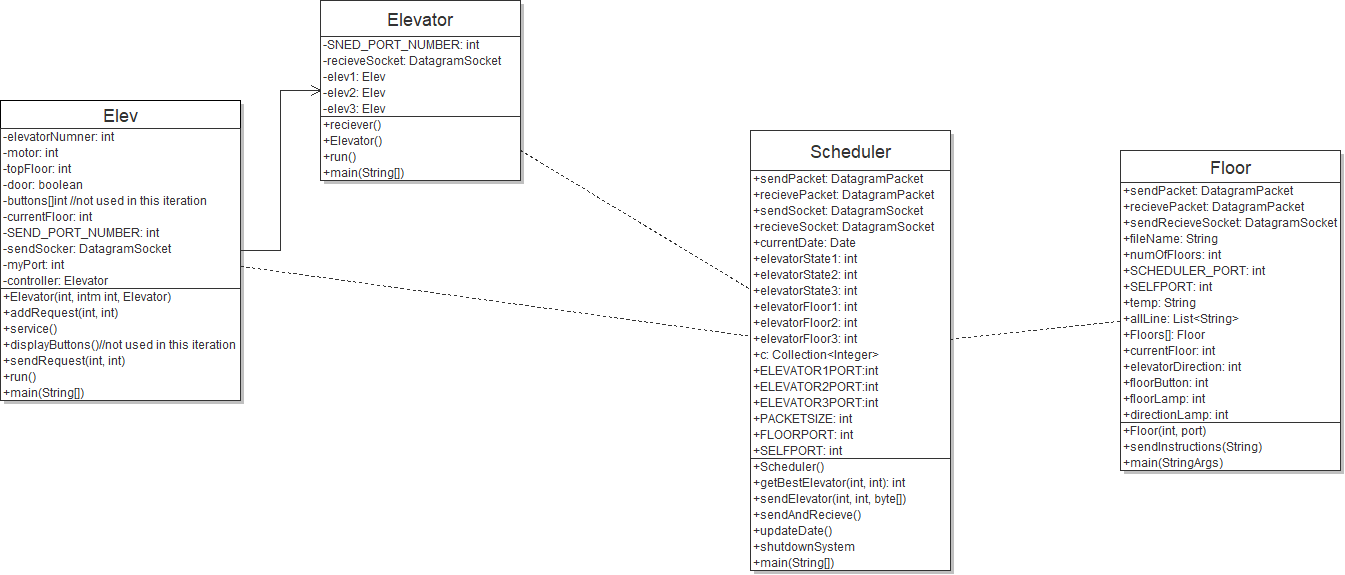
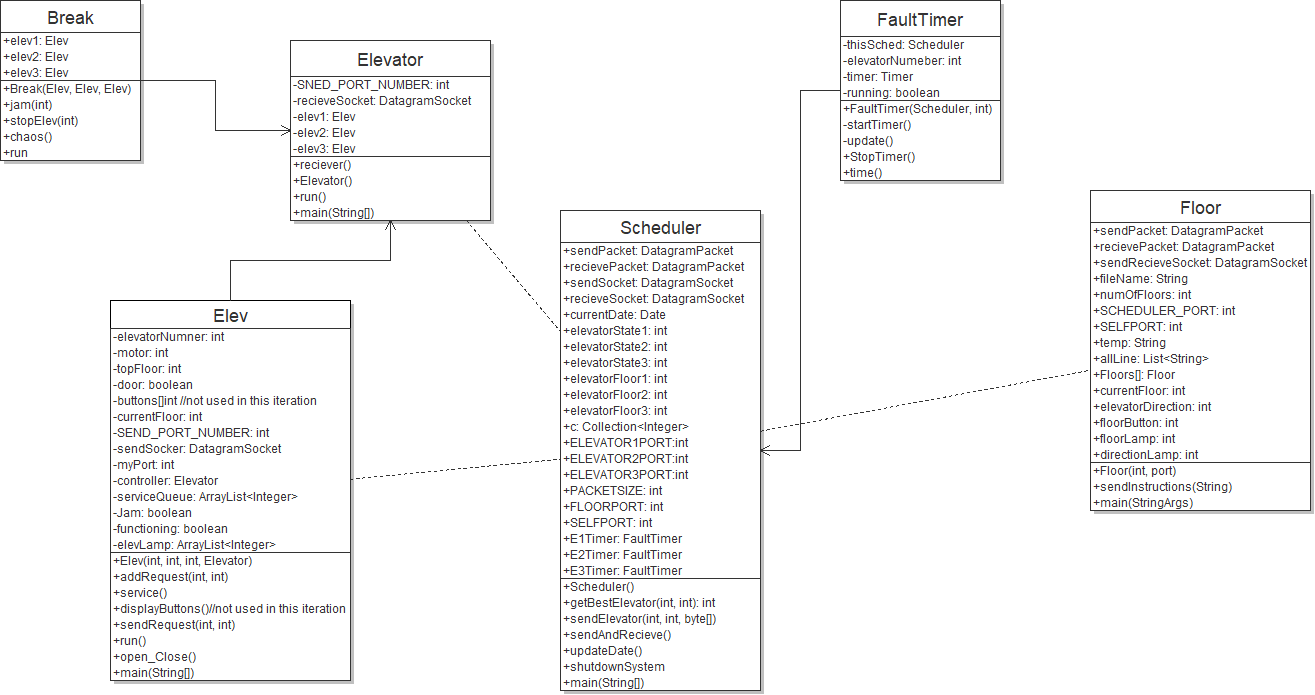
Docs and Comments

diff --git a/src/Break.java b/src/Break.java
@@ -15,47 +15,24 @@ public class Break extends Thread {
 	}
 
 	public void jam(int elevNum) {
-		System.out.println("\n\n\n\n *****JAM TIME****** \n\n\n");
+
 		if (elevNum == 1) {
 			this.elev1.jam = true;
-			try {
-				Thread.sleep(6000);
-			} catch (InterruptedException e) {
-				// TODO Auto-generated catch block
-				e.printStackTrace();
-			}
-			System.out.println("\n\n\n UNJAMED  \n\n\n");
-			this.elev1.jam = false;
 		}
 
 		else if (elevNum == 2) {
 			this.elev2.jam = true;
-			try {
-				Thread.sleep(6000);
-			} catch (InterruptedException e) {
-				// TODO Auto-generated catch block
-				e.printStackTrace();
-			}
-			System.out.println("\n\n\n UNJAMED  \n\n\n");
-			this.elev2.jam = false;
 		}
 
 		else {
 			this.elev3.jam = true;
-			try {
-				Thread.sleep(10000);
-			} catch (InterruptedException e) {
-				// TODO Auto-generated catch block
-				e.printStackTrace();
-			}
-			System.out.println("\n\n\n UNJAMED  \n\n\n");
-			this.elev2.jam = false;
 		}
 
 	}
 
 	public void stopElev(int elevNum) {
-
+		
+		//Set the functioning to false preventing service from running
 		if (elevNum == 1) {
 			this.elev1.functioning = false;
 			System.out.println("\n\n **** E1 failure ***\n\n");
@@ -81,7 +58,9 @@ public class Break extends Thread {
 			// TODO Auto-generated catch block
 			e.printStackTrace();
 		}
-
+		
+		
+		//randomly select which elevator to jam and shutdown and when
 		Random ran = new Random();
 		for (int i = 0; i < 2; i++) {
 			int chosen = ran.nextInt(3) + 1; // 1-3

diff --git a/src/FaultTimer.java b/src/FaultTimer.java
@@ -1,8 +1,12 @@
+//@Author Andrew Dybka, Maveric
+//Create timers to make sure elevators are runn
+
 
 
 import java.util.Date;
 import java.util.Timer;
 import java.util.TimerTask;
+
 
 public class FaultTimer {
 	private Scheduler thisSched;
@@ -16,7 +20,7 @@ public class FaultTimer {
 		running = false;
 	}
 
-	private void startTimer() {
+	private void startTimer() {//create a new timer
 		TimerTask timerTask = new TimerTask() {
 			@Override
 			public void run() {
@@ -34,13 +38,16 @@ public class FaultTimer {
 				}
 			}
 		};
+		//
+		//create a new timer and set running to true
+		
 		timer = new Timer();
 		timer.schedule(timerTask, 3000);
 		running = true;
 
 	}
 
-	private void update() {
+	private void update() {//update a started timer
 		TimerTask timerTask = new TimerTask() {
 			@Override
 			public void run() {
@@ -58,6 +65,8 @@ public class FaultTimer {
 				}
 			}
 		};
+		//clear old timer and create new with task
+		
 		timer.cancel();
 		timer = new Timer();
 		timer.schedule(timerTask, 3000);
@@ -72,9 +81,9 @@ public class FaultTimer {
 	}
 
 	public void time() {
-		if (running) {
+		if (running) {//if already runnign update timer
 			update();
-		} else {
+		} else {//if not timeing start a new timer
 			startTimer();
 		}
 	}

diff --git a/src/Scheduler.java b/src/Scheduler.java
@@ -20,13 +20,10 @@ public class Scheduler {
 														// up 2 is down
 			elevatorFloor1, elevatorFloor2, elevatorFloor3; // collections, ArrayList?
 	boolean e1Function, e2Function, e3Function;
-	//boolean[] etimers = new boolean[3];
-	//boolean[] eSafety = new boolean[3];
+
 	static int ELEVATORPORT1 = 69, ELEVATORPORT2 = 70, ELEVATORPORT3 = 71, PACKETSIZE = 25, SELFPORT = 219,
 			FLOORPORT = 238;
-	//private Timer e1Timer, e2Timer, e3Timer;
 	public FaultTimer E1Timer, E2Timer, E3Timer;
-	//static long FAILTIME = 10000;// 10 seconds for fail time
 
 	public Scheduler() {
 		elevatorState1 = 0;
@@ -98,6 +95,7 @@ public class Scheduler {
 		// assign proper port
 		switch (elev) {
 		// set Elevator in msg and start timer for elevator to respond
+		//timer starts or updates
 		case (3):
 			toPort = ELEVATORPORT3;
 			elevatorState3 = msg[1];
@@ -105,10 +103,7 @@ public class Scheduler {
 		case (2):
 			toPort = ELEVATORPORT2;
 			elevatorState2 = msg[1];
-
 			E2Timer.time();
-			//eSafety[1] = false;
-			// System.out.println("\n\n ^^^^^^ AT SEND E2 START TIMER^^^^^\n\n");
 
 		default:
 			toPort = ELEVATORPORT1;

diff --git a/README.md b/README.md
@@ -1,6 +1,5 @@
 # SYSC-3303-Project
 Group project for SYSC 3303
-
 Running Instructions:
 Run classes in order: Scheduler.java->Elevator.java->floor.java
 To change inputs into the sysyem: Open input.txt and add or remove commants in same format as shown. 
@@ -13,19 +12,29 @@ Responsibilities:
 Floor.java - Sean
 Sets up 10 floors. Reads from input file and sends requests to scheduler
 
-Scheduler.java - Mav
+Scheduler.java - Mav, Andrew
 Receives requests from floor and status updates from elevators. Forwards requests to select elevator based on statuses
 
-Elevator.java, Elev.java - Seb
+Elevator.java, Elev.java - Seb, Andrew
 Receives requests from scheduler and manages queues for each elevator. Sends status updates from al elevators to scheduler
 
+Break.java, Seb
+randomly selects which elevator jams and which shutsdown at pseudo random times.
+
+FaultTimer.java - Andrew, Mav
+creates and updates timers based off scheduler needs and shuts down elevators is necessary
+
 Diagrams, testing, Error correction and modifications for all classes - Andrew
+
 
 documentation - everyone
 
 
 Errors and Limitaions:
-Doors and floor lamps are not included in this iteration due to last minute issues with some information sent between 
-programs. There is a 3 second delay between each request from the floors to make sure there is no overlapping in requets
-cause one elevator to take on more than it should. (Shown in Timing Diagram.png)
+There is a 3 second delay between each request from the floors to make sure there is no overlapping in requets
+cause one elevator to take on more than it should. (Shown in RequestSendingError.png) 
+
+Break creates errors in the system. Most importantly shuts off an elevator which will stop sending updates to the scheduler.
+The Scheduler's timer will go off if it doesnt receive updates from an elevator in motion or has a just been sent a request.
+Once the timer goes off the scheduler will stop sending the shutdown elevator requests.
  
